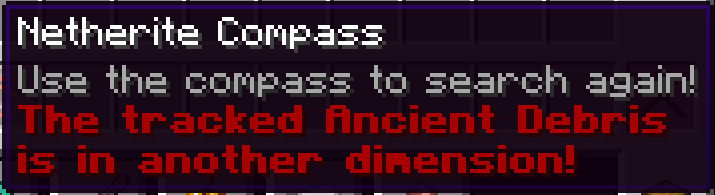
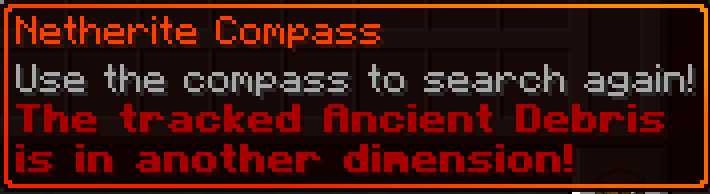
minecraft 1.21.11

Changed region(s): [[0.0, 0.0, 1.0, 1.0], [0.1859, 0.5258, 0.4338, 0.7113]]

diff --git a/src/main/java/dorkix/mods/netherite_compass/item/NetheriteCompass.java b/src/main/java/dorkix/mods/netherite_compass/item/NetheriteCompass.java
@@ -8,6 +8,7 @@ import org.jetbrains.annotations.Nullable;
 
 import dorkix.mods.NetheriteCompassMod;
 import dorkix.mods.components.DebrisTrackingComponent;
+import dorkix.mods.netherite_compass.Constants;
 import net.minecraft.block.Blocks;
 import net.minecraft.component.DataComponentTypes;
 import net.minecraft.component.type.LoreComponent;
@@ -25,6 +26,7 @@ import net.minecraft.text.Text;
 import net.minecraft.util.ActionResult;
 import net.minecraft.util.Formatting;
 import net.minecraft.util.Hand;
+import net.minecraft.util.Identifier;
 import net.minecraft.util.math.BlockPos;
 import net.minecraft.util.math.GlobalPos;
 import net.minecraft.world.World;
@@ -127,6 +129,7 @@ public class NetheriteCompass extends Item {
             itemStack.set(NetheriteCompassMod.DEBRIS_TRACKING_COMPONENT,
                     DebrisTrackingComponent.DEFAULT);
         }
+        itemStack.set(DataComponentTypes.TOOLTIP_STYLE, Identifier.of(Constants.MODID, "compass"));
     }
 
     private static void playSound(World world, Entity entity, boolean success) {

diff --git a/src/main/java/dorkix/mods/NetheriteCompassMod.java b/src/main/java/dorkix/mods/NetheriteCompassMod.java
@@ -11,6 +11,7 @@ import net.fabricmc.api.ModInitializer;
 import net.fabricmc.fabric.api.itemgroup.v1.FabricItemGroup;
 import net.fabricmc.fabric.api.itemgroup.v1.ItemGroupEvents;
 import net.minecraft.component.ComponentType;
+import net.minecraft.component.DataComponentTypes;
 import net.minecraft.item.Item;
 import net.minecraft.item.Item.Settings;
 import net.minecraft.item.ItemGroup;
@@ -37,6 +38,9 @@ public class NetheriteCompassMod implements ModInitializer {
 
 	public static final Item NETHERITE_COMPASS = new NetheriteCompass(
 			new Settings().rarity(Rarity.EPIC).fireproof().maxCount(1).registryKey(NETHERITE_COMPASS_KEY)
+					.component(DataComponentTypes.CUSTOM_NAME,
+							Text.translatable("item.netherite_compass.netherite_compass")
+									.styled(style -> style.withColor(0xFF4100).withItalic(false)))
 					.component(DEBRIS_TRACKING_COMPONENT, DebrisTrackingComponent.DEFAULT));
 
 	public static final RegistryKey<ItemGroup> NETHERITE_COMPASS_GROUP_KEY = RegistryKey.of(

diff --git a/README.md b/README.md
@@ -3,10 +3,10 @@
[1 lines of base64/hex data omitted]
 [![Project License](https://img.shields.io/github/license/DorkixAzIgazi/NetheriteCompass?style=flat-square)](LICENSE)
 ![Environment: Client and Server](https://img.shields.io/badge/environment-client_and_server-1976d2?style=flat-square)
[2 lines of base64/hex data omitted]
 
[1 lines of base64/hex data omitted]
-![Mod](https://img.shields.io/badge/mod_version-1.8.0-3b8526?style=flat-square)
[1 lines of base64/hex data omitted]
+![Mod](https://img.shields.io/badge/mod_version-1.14.0-3b8526?style=flat-square)
 
[2 lines of base64/hex data omitted]
@@ -57,6 +57,23 @@ In order to obtain the Netherite Compass the player have to put three items into
 
 ![Crafting](/docs/images/crafting.png)
 
+### Configuring search radius with Modmenu
+
+This mod integrates with [Mod Menu](https://modrinth.com/mod/modmenu) to provide an in-game configuration screen. You can adjust the chunk search radius to balance between performance and search range.
+
+To access the configuration:
+
+1. Install Mod Menu (if not already installed)
+2. Open the Mods menu from the main menu or pause screen
+3. Find "Netherite Compass" in the mod list
+4. Click the config button (options icon) to open the configuration screen
+5. Adjust the chunk radius slider (1-16 chunks)
+6. Click "Save" to apply your changes
+
+**Note:** Larger search radii will scan more chunks, which may impact performance on slower systems. The default value of radius 1 -> 3x3 chunks should be more than enough for vanilla worlds.
+
+![Mod Menu Config](/docs/images/modmenu.png)
+
 ### Other notes
 
 The compass will not show height offcourse, just like the others already in game, but it is already powerful enough so it probably don't need to.
@@ -79,6 +96,30 @@ or the path to it.
 
 The initial setup may take a few minutes. After Gradle has finished building everything, you can find the resulting
 artifacts in `build/libs`.
+
+## Why is Forge no longer supported?
+
+This mod is developed exclusively for **Fabric** and does not support Forge or NeoForge. Here's why:
+
+### Maintenance Burden
+
+- Maintaining separate codebases for Fabric and Forge significantly increases development time and complexity
+- The two mod loaders have fundamentally different APIs, requiring essentially two separate implementations
+- Bug fixes and new features would need to be implemented twice, tested twice, and debugged twice
+
+### Technical Incompatibility
+
+- Fabric and Forge use completely different architectures and mixin systems
+- The mod relies heavily on Fabric-specific APIs and features that don't have direct Forge equivalents
+- Compatibility layers (like Sinytra Connector) are experimental and unreliable for production use
+
+### Development Focus
+
+- By focusing on a single mod loader, I can dedicate more time to adding features and improving the mod
+- The Fabric ecosystem provides better tooling and a more modern development experience
+- The Fabric community and documentation make it easier to maintain high-quality code
+
+If you're looking for a Forge version, you're welcome to fork this project and create a port yourself (The MIT license allows you to do so freely), or consider switching to Fabric for this mod.
 
 ## License
 
